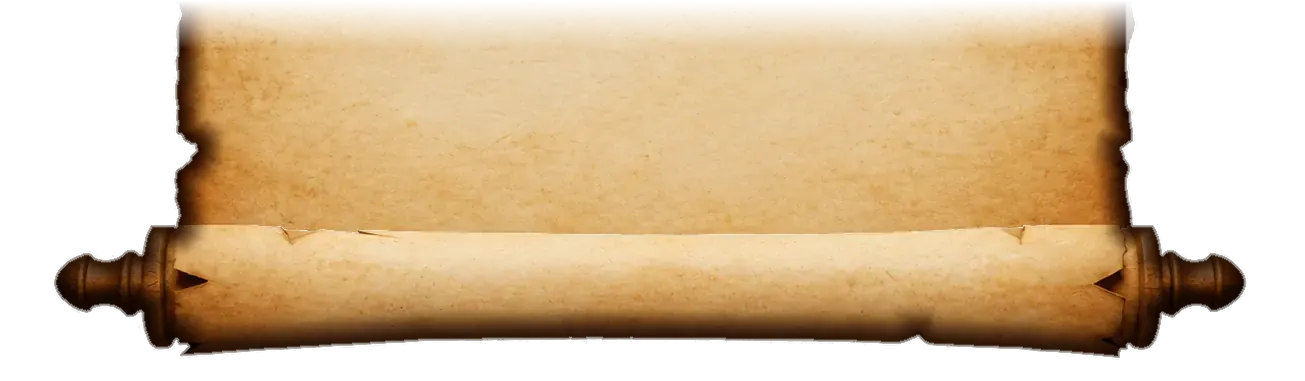
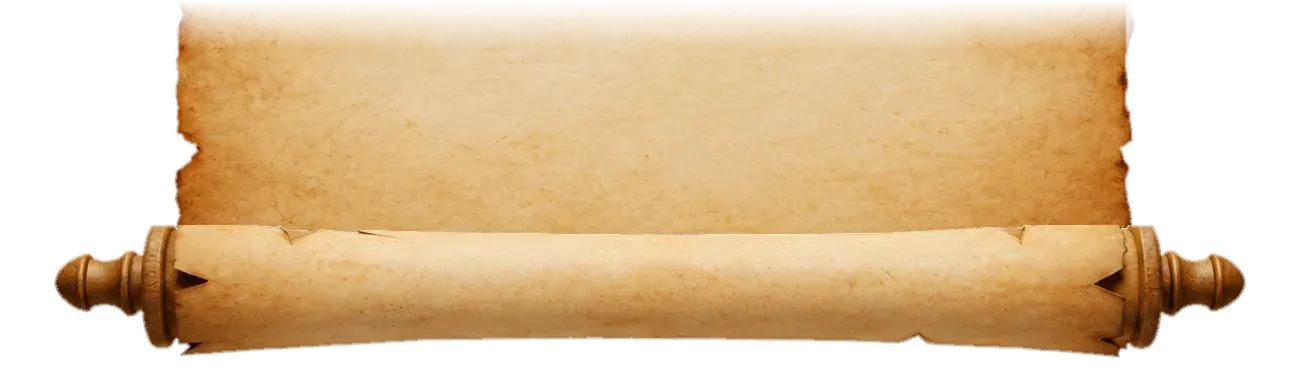
Bord du parchemin presque plus noirci (V0.19)
adoucir.py n'assombrit plus que les 6 derniers pixels, très légèrement,
et le liseré sombre de l'ombre portée est retiré. Il ne reste que le
contour fondu et l'ombre douce sous le rouleau.

Claude-Session: https://claude.ai/code/session_018T6BW8Kgcimu5gmU6nSQr4

Changed region(s): [[0.0307, 0.0289, 0.9808, 0.9528]]

diff --git a/css/style.css b/css/style.css
@@ -101,11 +101,11 @@ body {
   aspect-ratio: 1305 / 1156; /* hauteur minimale : le rouleau entier */
   /* Le contenu reste sur le papier, entre les rouleaux et les bords déchirés. */
   padding: calc(var(--w) * 0.16) calc(var(--w) * 0.19) calc(var(--w) * 0.15);
-  /* Bord fondu dans le fond, ombre portée et léger halo chaud : le rouleau
+  /* Ombre portée et léger halo chaud : le rouleau
      semble posé dans la pièce plutôt que collé sur la page. L'ombre suit la
      forme du parchemin (bords déchirés, poignées) ; le contenu, posé sur le
      papier opaque, n'en reçoit pas. */
-  filter: drop-shadow(0 0 2px rgba(40,22,8,0.75)) drop-shadow(0 12px 30px rgba(0,0,0,0.6))
+  filter: drop-shadow(0 12px 30px rgba(0,0,0,0.55))
     drop-shadow(0 0 80px rgba(190,130,60,0.16));
 }
 /* Rouleau du haut et du bas, posés sur le motif du milieu. */

diff --git a/sw.js b/sw.js
@@ -10,7 +10,7 @@
    Pensez à incrémenter CACHE_VERSION quand la liste PRECACHE change.
    ------------------------------------------------------------------ */
 
-const CACHE_VERSION = "v17";
+const CACHE_VERSION = "v18";
 const APP_CACHE = `fiches-bande-app-${CACHE_VERSION}`;
 const FONT_CACHE = "fiches-bande-fonts";
 

diff --git a/index.html b/index.html
@@ -51,7 +51,7 @@
 
   <footer class="footer-note">
     <p data-i18n="pied.confidentialite">Tout le traitement se fait dans votre navigateur : vos bandes ne sont jamais envoyées sur un serveur.</p>
-    <p>V0.18</p>
+    <p>V0.19</p>
   </footer>
 </aside>
 

diff --git a/tools/parchemin/adoucir.py b/tools/parchemin/adoucir.py
@@ -1,9 +1,9 @@
-"""Brunit et adoucit le bord déchiré du parchemin.
+"""Adoucit le bord déchiré du parchemin.
 
 Lit les images brutes (tools/parchemin/brut/, sorties de split.py) et écrit
-les images du site (images/). Le papier est assombri progressivement sur les
-derniers pixels avant le bord, comme un papier roussi, et le contour est
-légèrement fondu : le parchemin ne tranche plus sur le fond sombre.
+les images du site (images/). Le contour est légèrement fondu, et le papier
+à peine assombri sur ses tout derniers pixels (réglages ci-dessous : plus
+LARGEUR est grand et SOMBRE petit, plus le bord paraît roussi).
 
     python3 tools/parchemin/adoucir.py tools/parchemin/brut images
 """
@@ -13,9 +13,9 @@ from PIL import Image
 
 src, dst = sys.argv[1], sys.argv[2]
 
-LARGEUR = 34        # px (image de 1305 px) sur lesquels le bord est bruni
-SOMBRE = 0.30       # luminosité restante tout au bord
-TEINTE = np.array([0.78, 0.55, 0.33])  # brun roussi vers lequel tire le bord
+LARGEUR = 6         # px (image de 1305 px) sur lesquels le bord est à peine assombri
+SOMBRE = 0.88       # luminosité restante tout au bord
+TEINTE = np.array([0.97, 0.93, 0.88])  # léger brun vers lequel tire le bord
 FONDU = 3           # px de contour rendus semi-transparents
 
 
